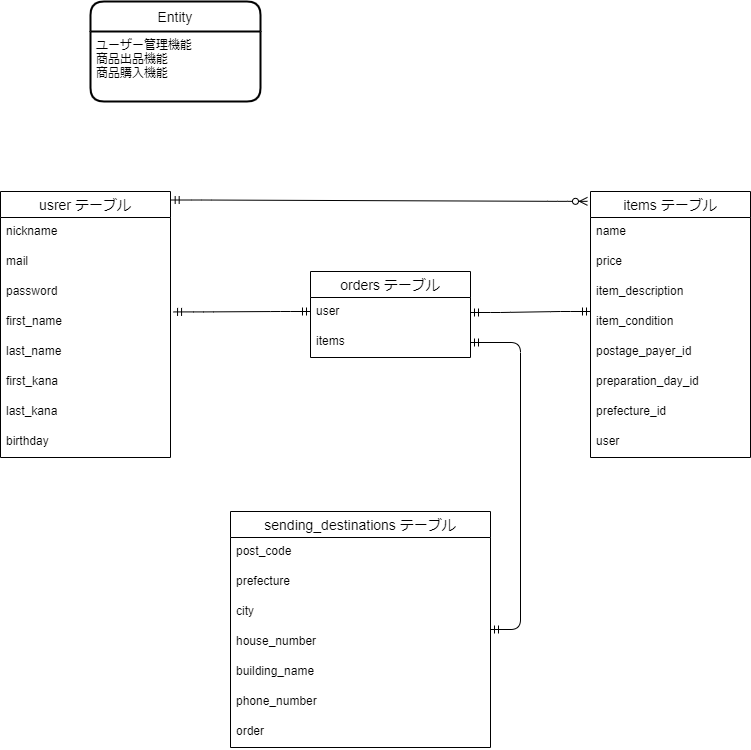
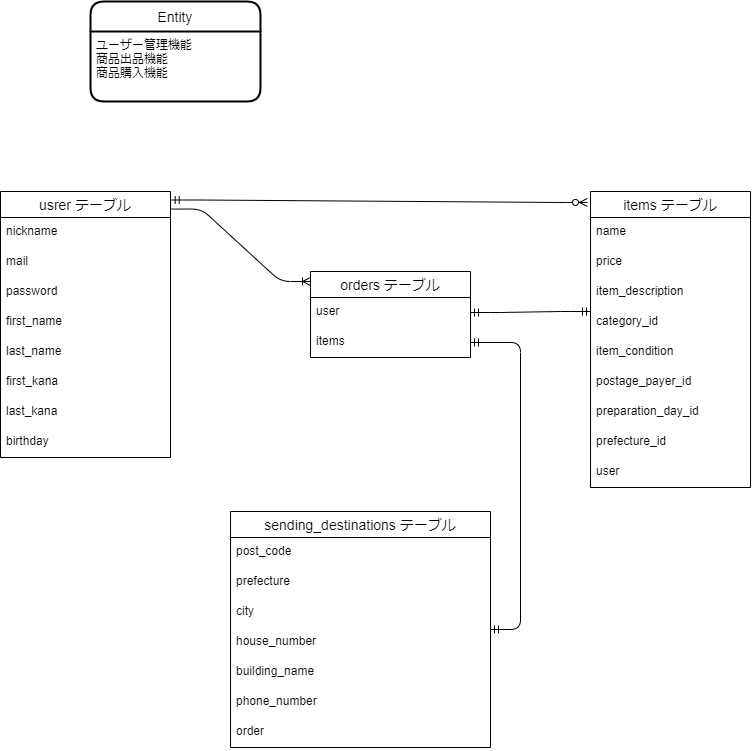
データベース設計修正点3

diff --git a/README.md b/README.md
@@ -13,8 +13,7 @@
 | birthday           | data   | null: false                           |
 
 ### Association
-- belongs_to :prefecture
-- has_one :orders
+- has_many :orders
 - has_many :items
 
 ## sending_destinations テーブル
@@ -26,7 +25,7 @@
 | house_number    | string     | null:false                     |
 | building_name   | string     |                                |
 | phone_number    | string     | null: false                    |
-| orders          | references | null: false, foreign_key: true |
+| order           | references | null: false, foreign_key: true |
 
 ### Association
 - belongs_to :order
@@ -37,6 +36,7 @@
 | name               | string     | null: false                    |
 | price              | integer    | null: false                    |
 | item_description   | text       |                                |
+| category_id        | integer    | null: fase                     |
 | item_condition_id  | integer    | null: false, foreign_key: true |
 | postage_payer_id   | integer    | null: false, foreign_key: true |
 | preparation_day_id | integer    | null: false, foreign_key: true |
